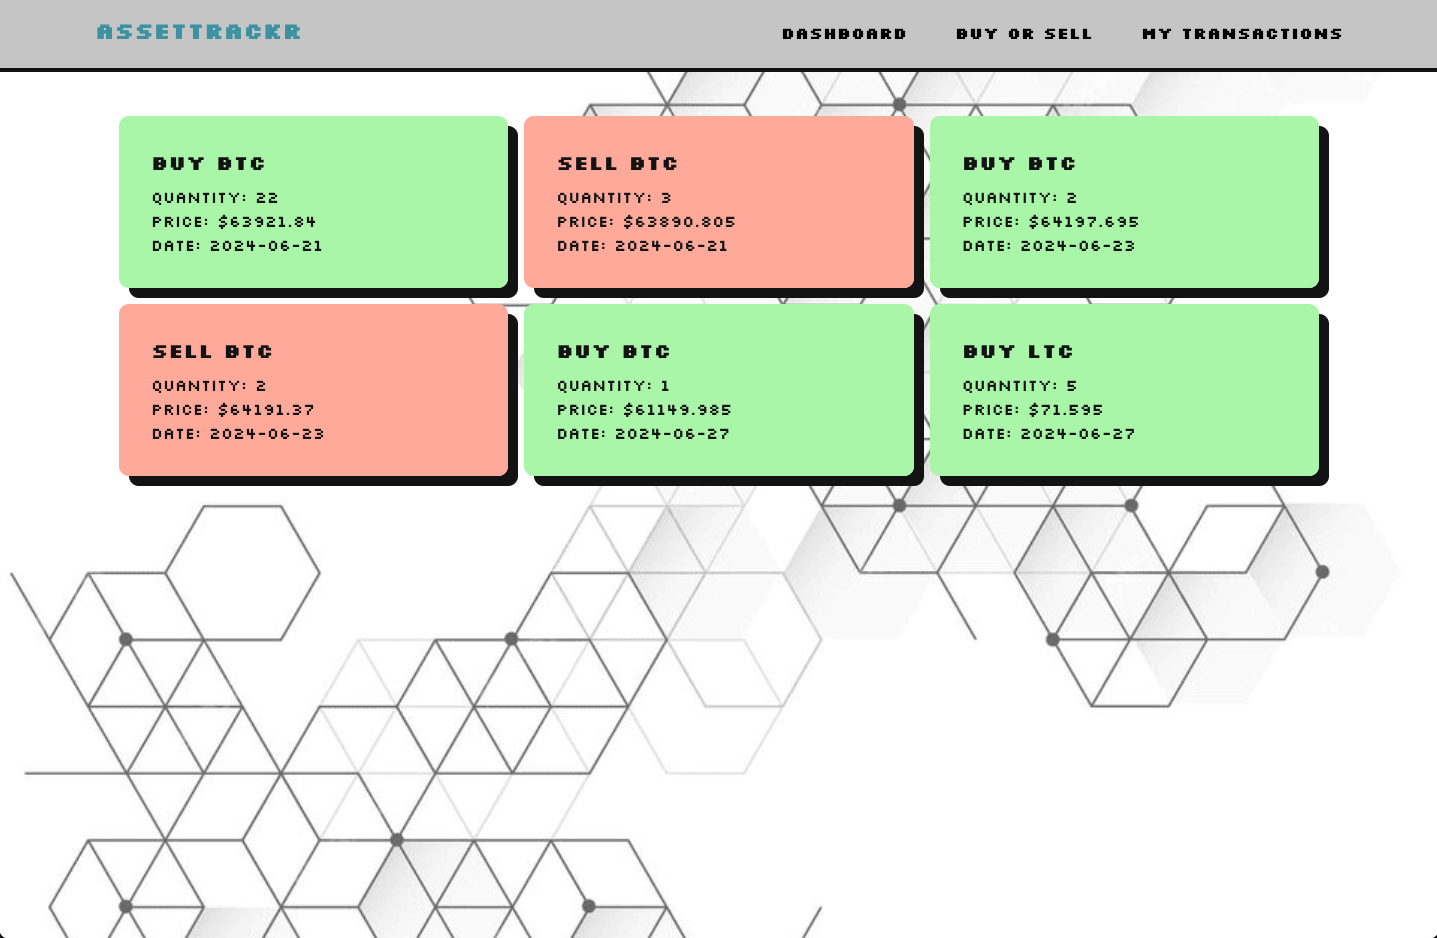
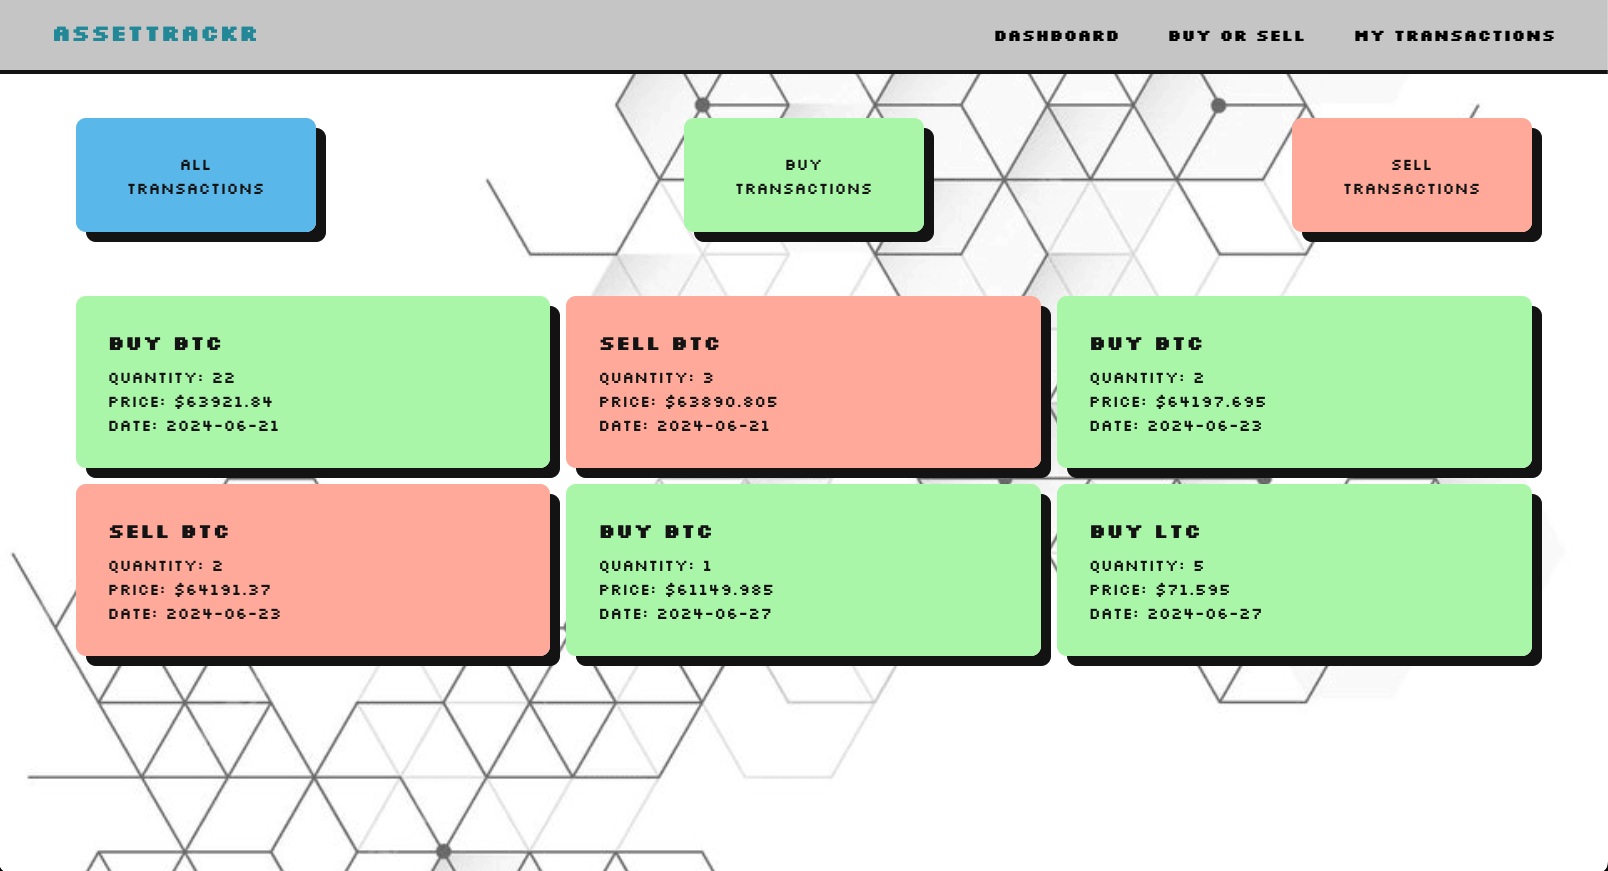
updated Readme

diff --git a/README.md b/README.md
@@ -20,6 +20,7 @@ AssetTrackr is a portfolio tracking web application that allows you to log buy a
 - Calculate and display the total portfolio value.
 - User authentication and authorization.
 - Dashboard displaying all assets held and their current values.
+- View filtered transaction history
 - Containerization with Docker.
 - CI/CD pipeline for automated testing and deployment.
 
@@ -100,7 +101,6 @@ The project uses a CI/CD pipeline for automated testing and deployment. The pipe
 3. Deploy the application to Amazon Lightsail if all tests pass.
 
 ## Future Features
-- Filtered transactions
 - Performance tracking charts.
 - Allocation charts.
 - Links to related news.
